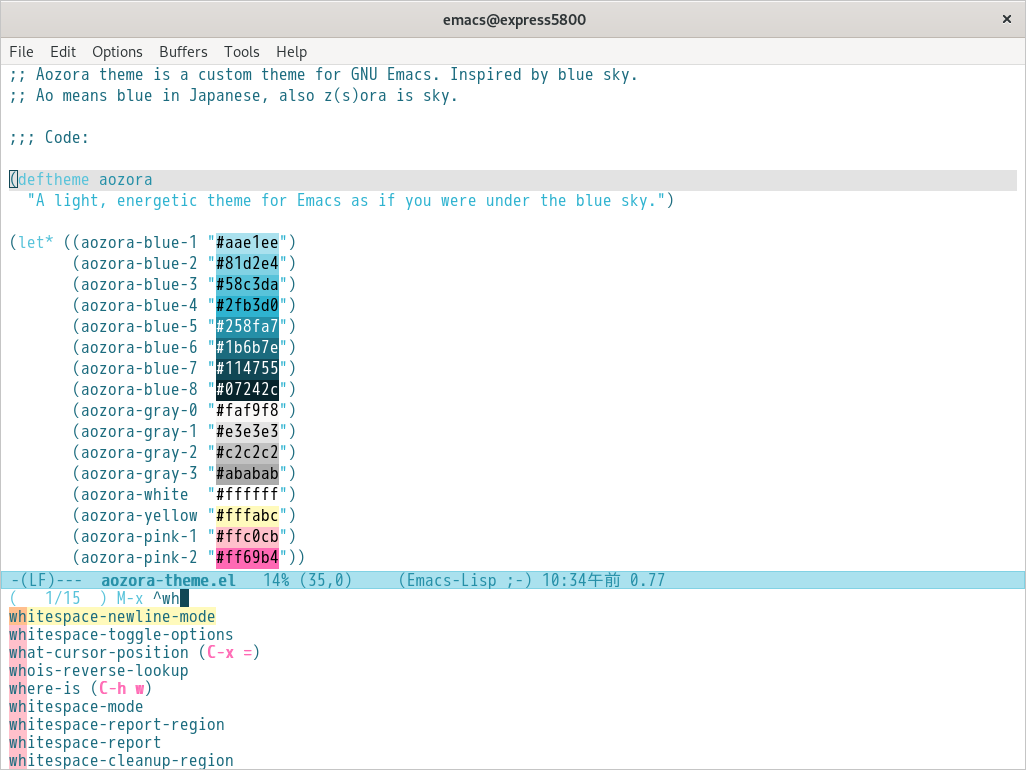
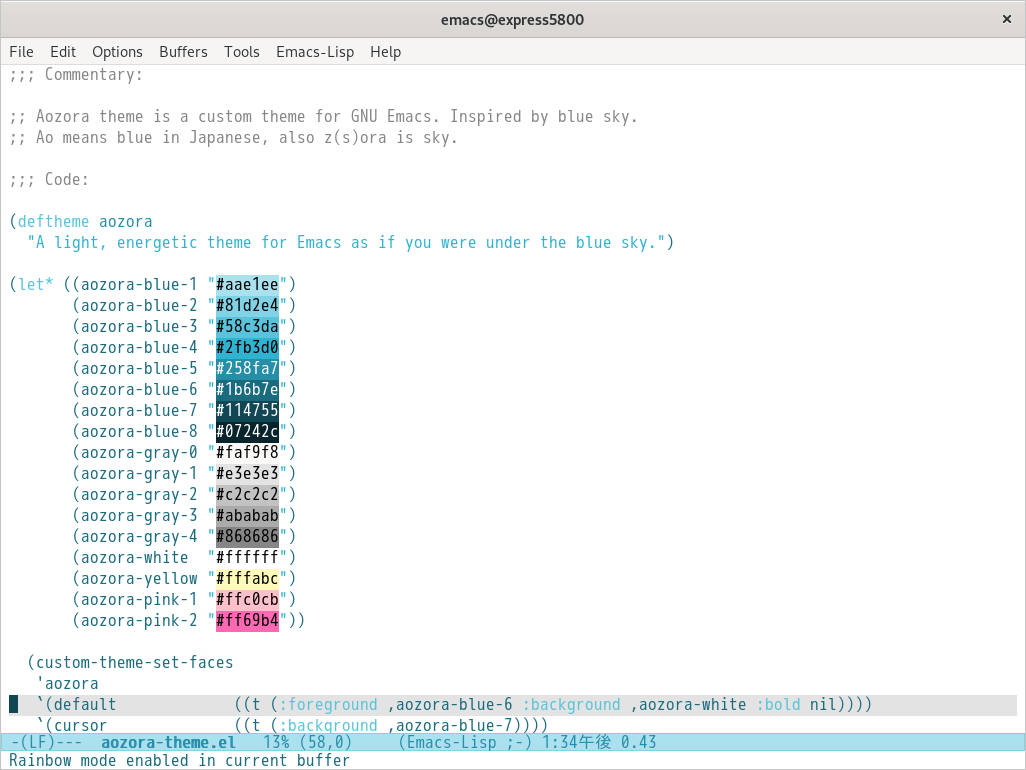
Bump minor version to 0.4
* Update CHANGELOG.md
* Change screenshot.png

diff --git a/CHANGELOG.md b/CHANGELOG.md
@@ -1,6 +1,11 @@
 # Change Log
 
-## v0.4 (Unreleased)
+## v0.5 (Unreleased)
+
+### Added
+nothing added yet
+
+## v0.4 (2023-03-15)
 
 ### Added
 - linum mode face
@@ -8,12 +13,14 @@
 - ivy mode face
 - hl-line mode face
 - aozora-gray-0 color
+- aozora-gray-4 color
 - aozora-yellow color
-- aozora-pink-1
+- aozora-pink-1 color
 
 ### Changed
 - color name of aozora-pink-1 to aozora-pink
 - aozora-pink to aozora-pink-2 after above changes
+- color of font-lock-comment-face foreground to aozora-gray-4
 
 ## v0.3 (2023-02-24)
 
